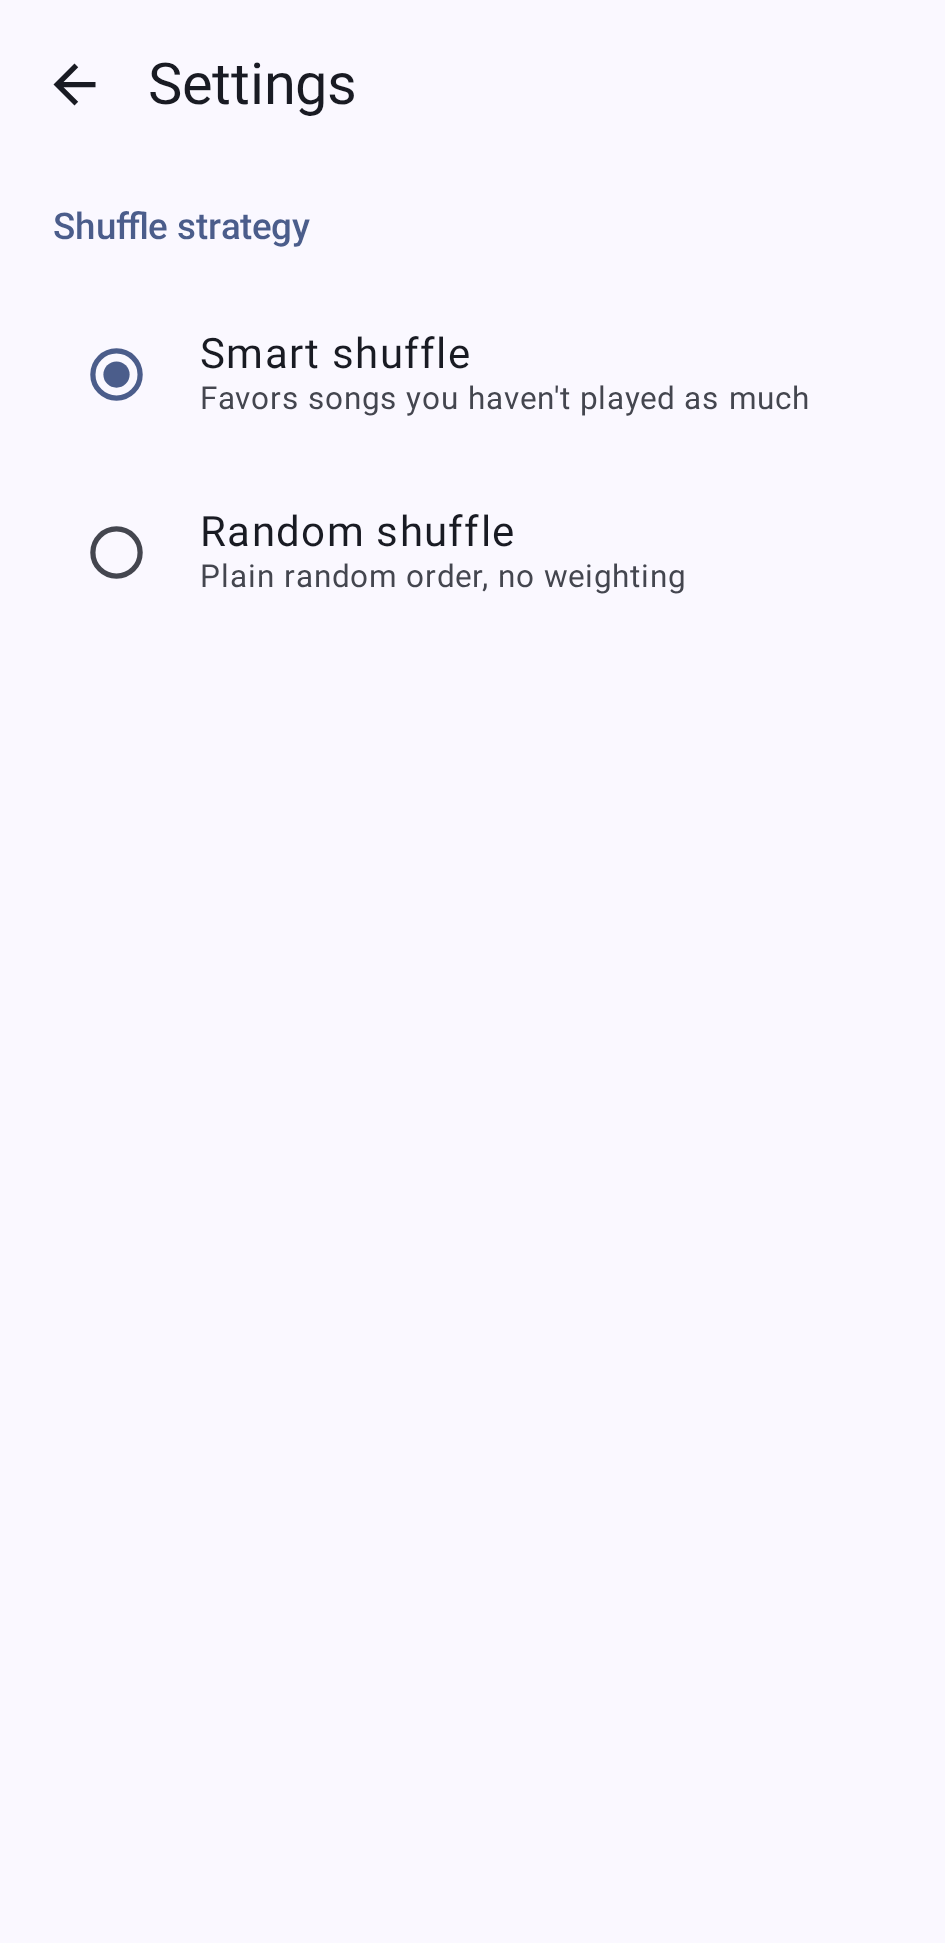
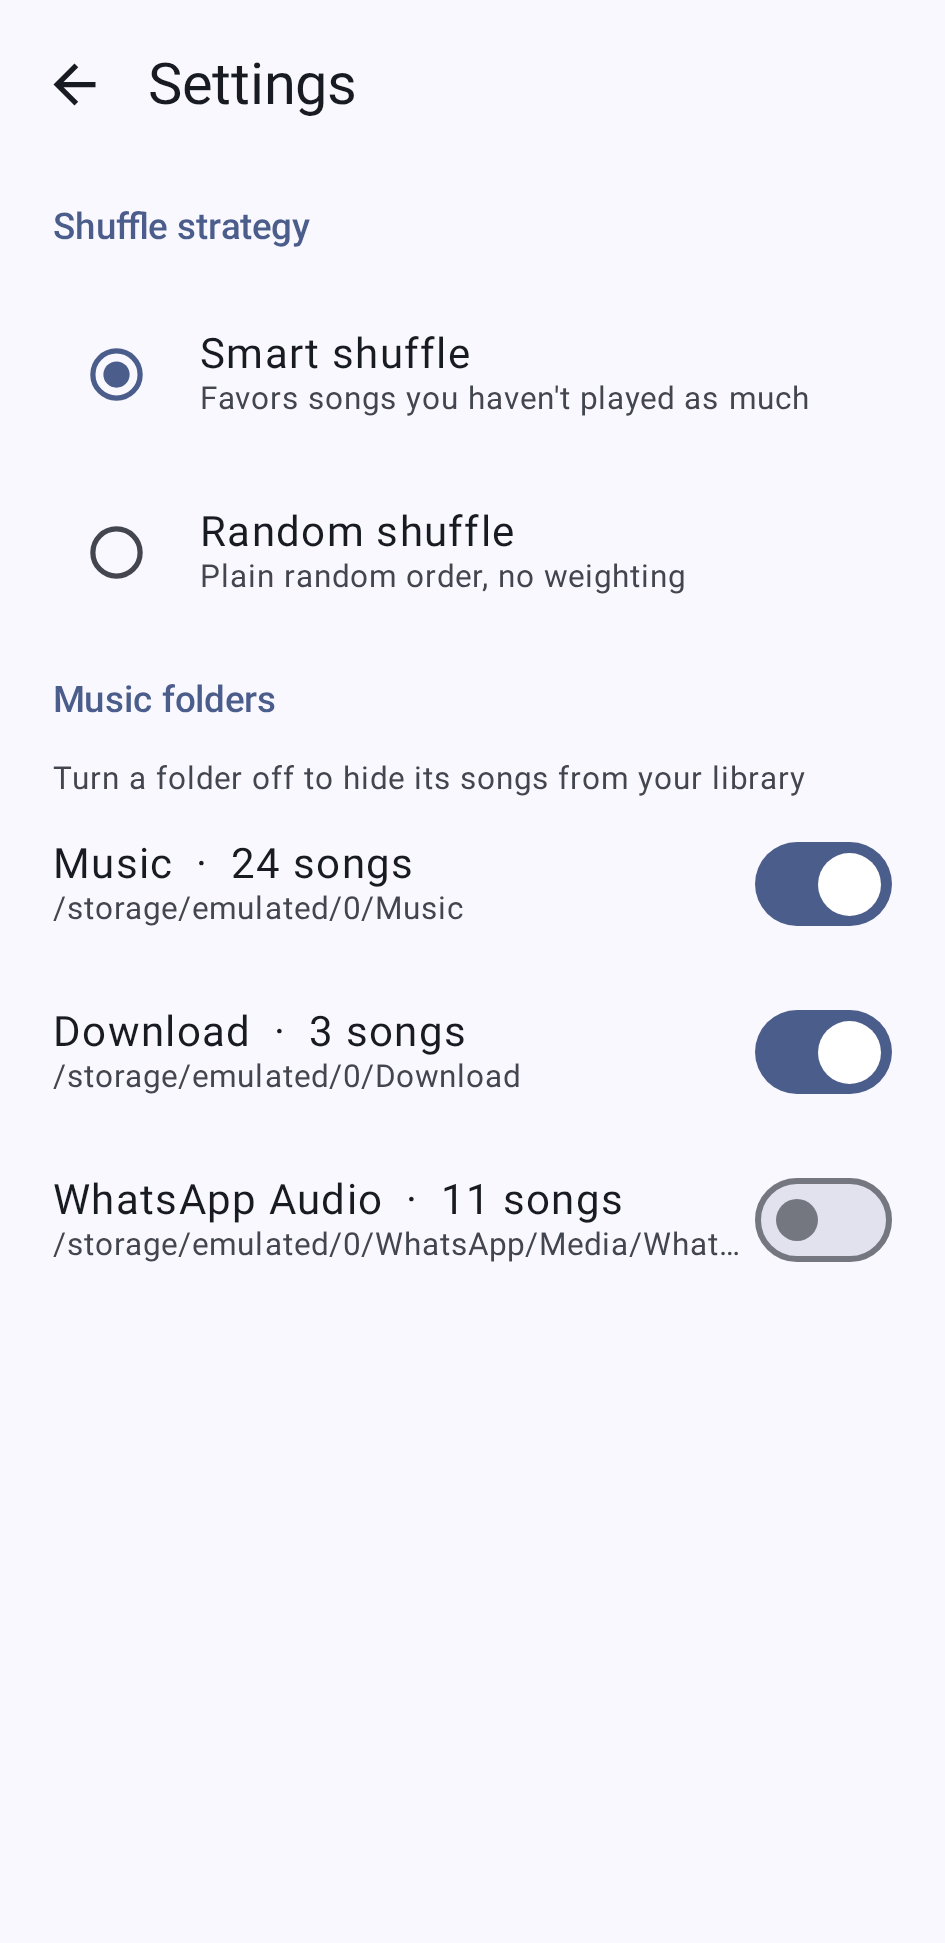
Add music folder exclusions in settings (#4)
* Add music folder exclusions in settings

Settings now lists every folder containing scanned songs with a song
count and an include/exclude switch. Excluded folder paths persist in
SettingsStore; the library, and everything downstream of it, only sees
songs from included folders. The full scan is kept in the view model so
excluded folders remain listed and can be re-enabled.

* Refresh settings screenshot with music folders section

---------

diff --git a/app/src/main/java/com/jp/paperplayer/ui/settings/SettingsScreen.kt b/app/src/main/java/com/jp/paperplayer/ui/settings/SettingsScreen.kt
@@ -4,7 +4,9 @@ import androidx.compose.foundation.layout.Column
 import androidx.compose.foundation.layout.Row
 import androidx.compose.foundation.layout.fillMaxWidth
 import androidx.compose.foundation.layout.padding
+import androidx.compose.foundation.rememberScrollState
 import androidx.compose.foundation.selection.selectable
+import androidx.compose.foundation.verticalScroll
 import androidx.compose.material.icons.Icons
 import androidx.compose.material.icons.automirrored.filled.ArrowBack
 import androidx.compose.material3.ExperimentalMaterial3Api
@@ -13,30 +15,39 @@ import androidx.compose.material3.IconButton
 import androidx.compose.material3.MaterialTheme
 import androidx.compose.material3.RadioButton
 import androidx.compose.material3.Scaffold
+import androidx.compose.material3.Switch
 import androidx.compose.material3.Text
 import androidx.compose.material3.TopAppBar
 import androidx.compose.runtime.Composable
 import androidx.compose.runtime.getValue
 import androidx.compose.ui.Alignment
 import androidx.compose.ui.Modifier
+import androidx.compose.ui.text.style.TextOverflow
 import androidx.compose.ui.tooling.preview.Preview
 import androidx.compose.ui.unit.dp
 import androidx.lifecycle.compose.collectAsStateWithLifecycle
 import com.jp.paperplayer.data.ShuffleStrategy
+import com.jp.paperplayer.model.data.MusicFolder
 import com.jp.paperplayer.ui.player.PlayerViewModel
+import com.jp.paperplayer.ui.preview.PreviewFixtures
+import com.jp.paperplayer.ui.songlist.SongListViewModel
 import com.jp.paperplayer.ui.theme.PaperPlayerTheme
 
 @OptIn(ExperimentalMaterial3Api::class)
 @Composable
 fun SettingsScreen(
     playerViewModel: PlayerViewModel,
+    songListViewModel: SongListViewModel,
     onNavigateBack: () -> Unit,
 ) {
     val strategy by playerViewModel.shuffleStrategy.collectAsStateWithLifecycle()
+    val musicFolders by songListViewModel.musicFolders.collectAsStateWithLifecycle()
     SettingsContent(
         shuffleStrategy = strategy,
+        musicFolders = musicFolders,
         onNavigateBack = onNavigateBack,
         onShuffleStrategyChange = playerViewModel::setShuffleStrategy,
+        onFolderExcludedChange = songListViewModel::setFolderExcluded,
     )
 }
 
@@ -44,8 +55,10 @@ fun SettingsScreen(
 @Composable
 private fun SettingsContent(
     shuffleStrategy: ShuffleStrategy,
+    musicFolders: List<MusicFolder>,
     onNavigateBack: () -> Unit,
     onShuffleStrategyChange: (ShuffleStrategy) -> Unit,
+    onFolderExcludedChange: (path: String, excluded: Boolean) -> Unit,
 ) {
     Scaffold(
         topBar = {
@@ -59,7 +72,11 @@ private fun SettingsContent(
             )
         },
     ) { padding ->
-        Column(modifier = Modifier.padding(padding)) {
+        Column(
+            modifier = Modifier
+                .padding(padding)
+                .verticalScroll(rememberScrollState()),
+        ) {
             Text(
                 text = "Shuffle strategy",
                 style = MaterialTheme.typography.titleSmall,
@@ -78,7 +95,68 @@ private fun SettingsContent(
                 selected = shuffleStrategy == ShuffleStrategy.RANDOM,
                 onClick = { onShuffleStrategyChange(ShuffleStrategy.RANDOM) },
             )
+
+            Text(
+                text = "Music folders",
+                style = MaterialTheme.typography.titleSmall,
+                color = MaterialTheme.colorScheme.primary,
+                modifier = Modifier.padding(horizontal = 20.dp, vertical = 12.dp),
+            )
+            if (musicFolders.isEmpty()) {
+                Text(
+                    text = "Folders appear here once your library has been scanned",
+                    style = MaterialTheme.typography.bodySmall,
+                    color = MaterialTheme.colorScheme.onSurfaceVariant,
+                    modifier = Modifier.padding(horizontal = 20.dp, vertical = 4.dp),
+                )
+            } else {
+                Text(
+                    text = "Turn a folder off to hide its songs from your library",
+                    style = MaterialTheme.typography.bodySmall,
+                    color = MaterialTheme.colorScheme.onSurfaceVariant,
+                    modifier = Modifier.padding(horizontal = 20.dp),
+                )
+                musicFolders.forEach { folder ->
+                    MusicFolderRow(
+                        folder = folder,
+                        onExcludedChange = { excluded -> onFolderExcludedChange(folder.path, excluded) },
+                    )
+                }
+            }
         }
+    }
+}
+
+@Composable
+private fun MusicFolderRow(
+    folder: MusicFolder,
+    onExcludedChange: (excluded: Boolean) -> Unit,
+) {
+    Row(
+        modifier = Modifier
+            .fillMaxWidth()
+            .padding(horizontal = 20.dp, vertical = 8.dp),
+        verticalAlignment = Alignment.CenterVertically,
+    ) {
+        Column(modifier = Modifier.weight(1f)) {
+            Text(
+                text = "${folder.name}  ·  ${folder.songCount} ${if (folder.songCount == 1) "song" else "songs"}",
+                style = MaterialTheme.typography.bodyLarge,
+                maxLines = 1,
+                overflow = TextOverflow.Ellipsis,
+            )
+            Text(
+                text = folder.path,
+                style = MaterialTheme.typography.bodySmall,
+                color = MaterialTheme.colorScheme.onSurfaceVariant,
+                maxLines = 1,
+                overflow = TextOverflow.Ellipsis,
+            )
+        }
+        Switch(
+            checked = !folder.excluded,
+            onCheckedChange = { included -> onExcludedChange(!included) },
+        )
     }
 }
 
@@ -118,8 +196,10 @@ internal fun SettingsContentPreview() {
     PaperPlayerTheme {
         SettingsContent(
             shuffleStrategy = ShuffleStrategy.SMART,
+            musicFolders = PreviewFixtures.musicFolders,
             onNavigateBack = {},
             onShuffleStrategyChange = {},
+            onFolderExcludedChange = { _, _ -> },
         )
     }
 }

diff --git a/app/src/main/java/com/jp/paperplayer/ui/songlist/SongListViewModel.kt b/app/src/main/java/com/jp/paperplayer/ui/songlist/SongListViewModel.kt
@@ -3,18 +3,48 @@ package com.jp.paperplayer.ui.songlist
 import android.app.Application
 import androidx.lifecycle.AndroidViewModel
 import androidx.lifecycle.viewModelScope
+import com.jp.paperplayer.data.SettingsStore
+import com.jp.paperplayer.model.data.MusicFolder
 import com.jp.paperplayer.model.data.Song
 import com.jp.paperplayer.scanner.MusicScanner
 import kotlinx.coroutines.flow.MutableStateFlow
+import kotlinx.coroutines.flow.SharingStarted
 import kotlinx.coroutines.flow.StateFlow
+import kotlinx.coroutines.flow.combine
+import kotlinx.coroutines.flow.stateIn
 import kotlinx.coroutines.launch
 
 class SongListViewModel(app: Application) : AndroidViewModel(app) {
 
     private val scanner = MusicScanner(app)
+    private val settingsStore = SettingsStore(app)
 
-    private val _songs = MutableStateFlow<List<Song>>(emptyList())
-    val songs: StateFlow<List<Song>> = _songs
+    // Full scan result; the visible library and the folder list both derive from it.
+    private val allSongs = MutableStateFlow<List<Song>>(emptyList())
+    private val excludedFolders = MutableStateFlow(settingsStore.getExcludedFolders())
+
+    val songs: StateFlow<List<Song>> =
+        combine(allSongs, excludedFolders) { songs, excluded ->
+            if (excluded.isEmpty()) songs
+            else songs.filterNot { it.folderPath() in excluded }
+        }.stateIn(viewModelScope, SharingStarted.Eagerly, emptyList())
+
+    val musicFolders: StateFlow<List<MusicFolder>> =
+        combine(allSongs, excludedFolders) { songs, excluded ->
+            songs
+                .filter { it.filePath.isNotBlank() }
+                .groupBy { it.folderPath() }
+                .filterKeys { it.isNotBlank() }
+                .map { (path, folderSongs) ->
+                    MusicFolder(
+                        path = path,
+                        name = path.substringAfterLast('/').ifBlank { path },
+                        songCount = folderSongs.size,
+                        excluded = path in excluded,
+                    )
+                }
+                .sortedBy { it.path.lowercase() }
+        }.stateIn(viewModelScope, SharingStarted.Eagerly, emptyList())
 
     private val _isLoading = MutableStateFlow(false)
     val isLoading: StateFlow<Boolean> = _isLoading
@@ -23,8 +53,16 @@ class SongListViewModel(app: Application) : AndroidViewModel(app) {
         if (_isLoading.value) return
         viewModelScope.launch {
             _isLoading.value = true
-            _songs.value = scanner.scan()
+            allSongs.value = scanner.scan()
             _isLoading.value = false
         }
     }
+
+    fun setFolderExcluded(path: String, excluded: Boolean) {
+        val next = if (excluded) excludedFolders.value + path else excludedFolders.value - path
+        settingsStore.setExcludedFolders(next)
+        excludedFolders.value = next
+    }
+
+    private fun Song.folderPath(): String = filePath.substringBeforeLast('/', missingDelimiterValue = "")
 }

diff --git a/app/src/main/java/com/jp/paperplayer/model/data/MusicFolder.kt b/app/src/main/java/com/jp/paperplayer/model/data/MusicFolder.kt
@@ -1,0 +1,9 @@
+package com.jp.paperplayer.model.data
+
+/** A folder on device storage that contains at least one scanned song. */
+data class MusicFolder(
+    val path: String,
+    val name: String,
+    val songCount: Int,
+    val excluded: Boolean,
+)

diff --git a/app/src/main/java/com/jp/paperplayer/data/SettingsStore.kt b/app/src/main/java/com/jp/paperplayer/data/SettingsStore.kt
@@ -22,7 +22,15 @@ class SettingsStore(context: Context) {
         prefs.edit().putString(KEY_SHUFFLE_STRATEGY, strategy.name).apply()
     }
 
+    fun getExcludedFolders(): Set<String> =
+        prefs.getStringSet(KEY_EXCLUDED_FOLDERS, null)?.toSet() ?: emptySet()
+
+    fun setExcludedFolders(folders: Set<String>) {
+        prefs.edit().putStringSet(KEY_EXCLUDED_FOLDERS, folders.toSet()).apply()
+    }
+
     private companion object {
         const val KEY_SHUFFLE_STRATEGY = "shuffle_strategy"
+        const val KEY_EXCLUDED_FOLDERS = "excluded_folders"
     }
 }

diff --git a/app/src/main/java/com/jp/paperplayer/ui/preview/PreviewFixtures.kt b/app/src/main/java/com/jp/paperplayer/ui/preview/PreviewFixtures.kt
@@ -3,6 +3,7 @@ package com.jp.paperplayer.ui.preview
 import android.net.Uri
 import com.jp.paperplayer.model.data.LrcTrack
 import com.jp.paperplayer.model.data.LyricLine
+import com.jp.paperplayer.model.data.MusicFolder
 import com.jp.paperplayer.model.data.Song
 import com.jp.paperplayer.model.ui.EditorLine
 import com.jp.paperplayer.model.ui.PlayerState
@@ -42,6 +43,12 @@ internal object PreviewFixtures {
     )
 
     val playCounts = mapOf(1L to 42, 2L to 17, 3L to 5)
+
+    val musicFolders = listOf(
+        MusicFolder("/storage/emulated/0/Music", "Music", 24, excluded = false),
+        MusicFolder("/storage/emulated/0/Download", "Download", 3, excluded = false),
+        MusicFolder("/storage/emulated/0/WhatsApp/Media/WhatsApp Audio", "WhatsApp Audio", 11, excluded = true),
+    )
 
     val editorLines = listOf(
         EditorLine("Waiting in a car", 0L),

diff --git a/app/src/main/java/com/jp/paperplayer/MainActivity.kt b/app/src/main/java/com/jp/paperplayer/MainActivity.kt
@@ -91,6 +91,7 @@ class MainActivity : ComponentActivity() {
                         composable("settings") {
                             SettingsScreen(
                                 playerViewModel = playerViewModel,
+                                songListViewModel = songListViewModel,
                                 onNavigateBack = { navController.popBackStack() },
                             )
                         }